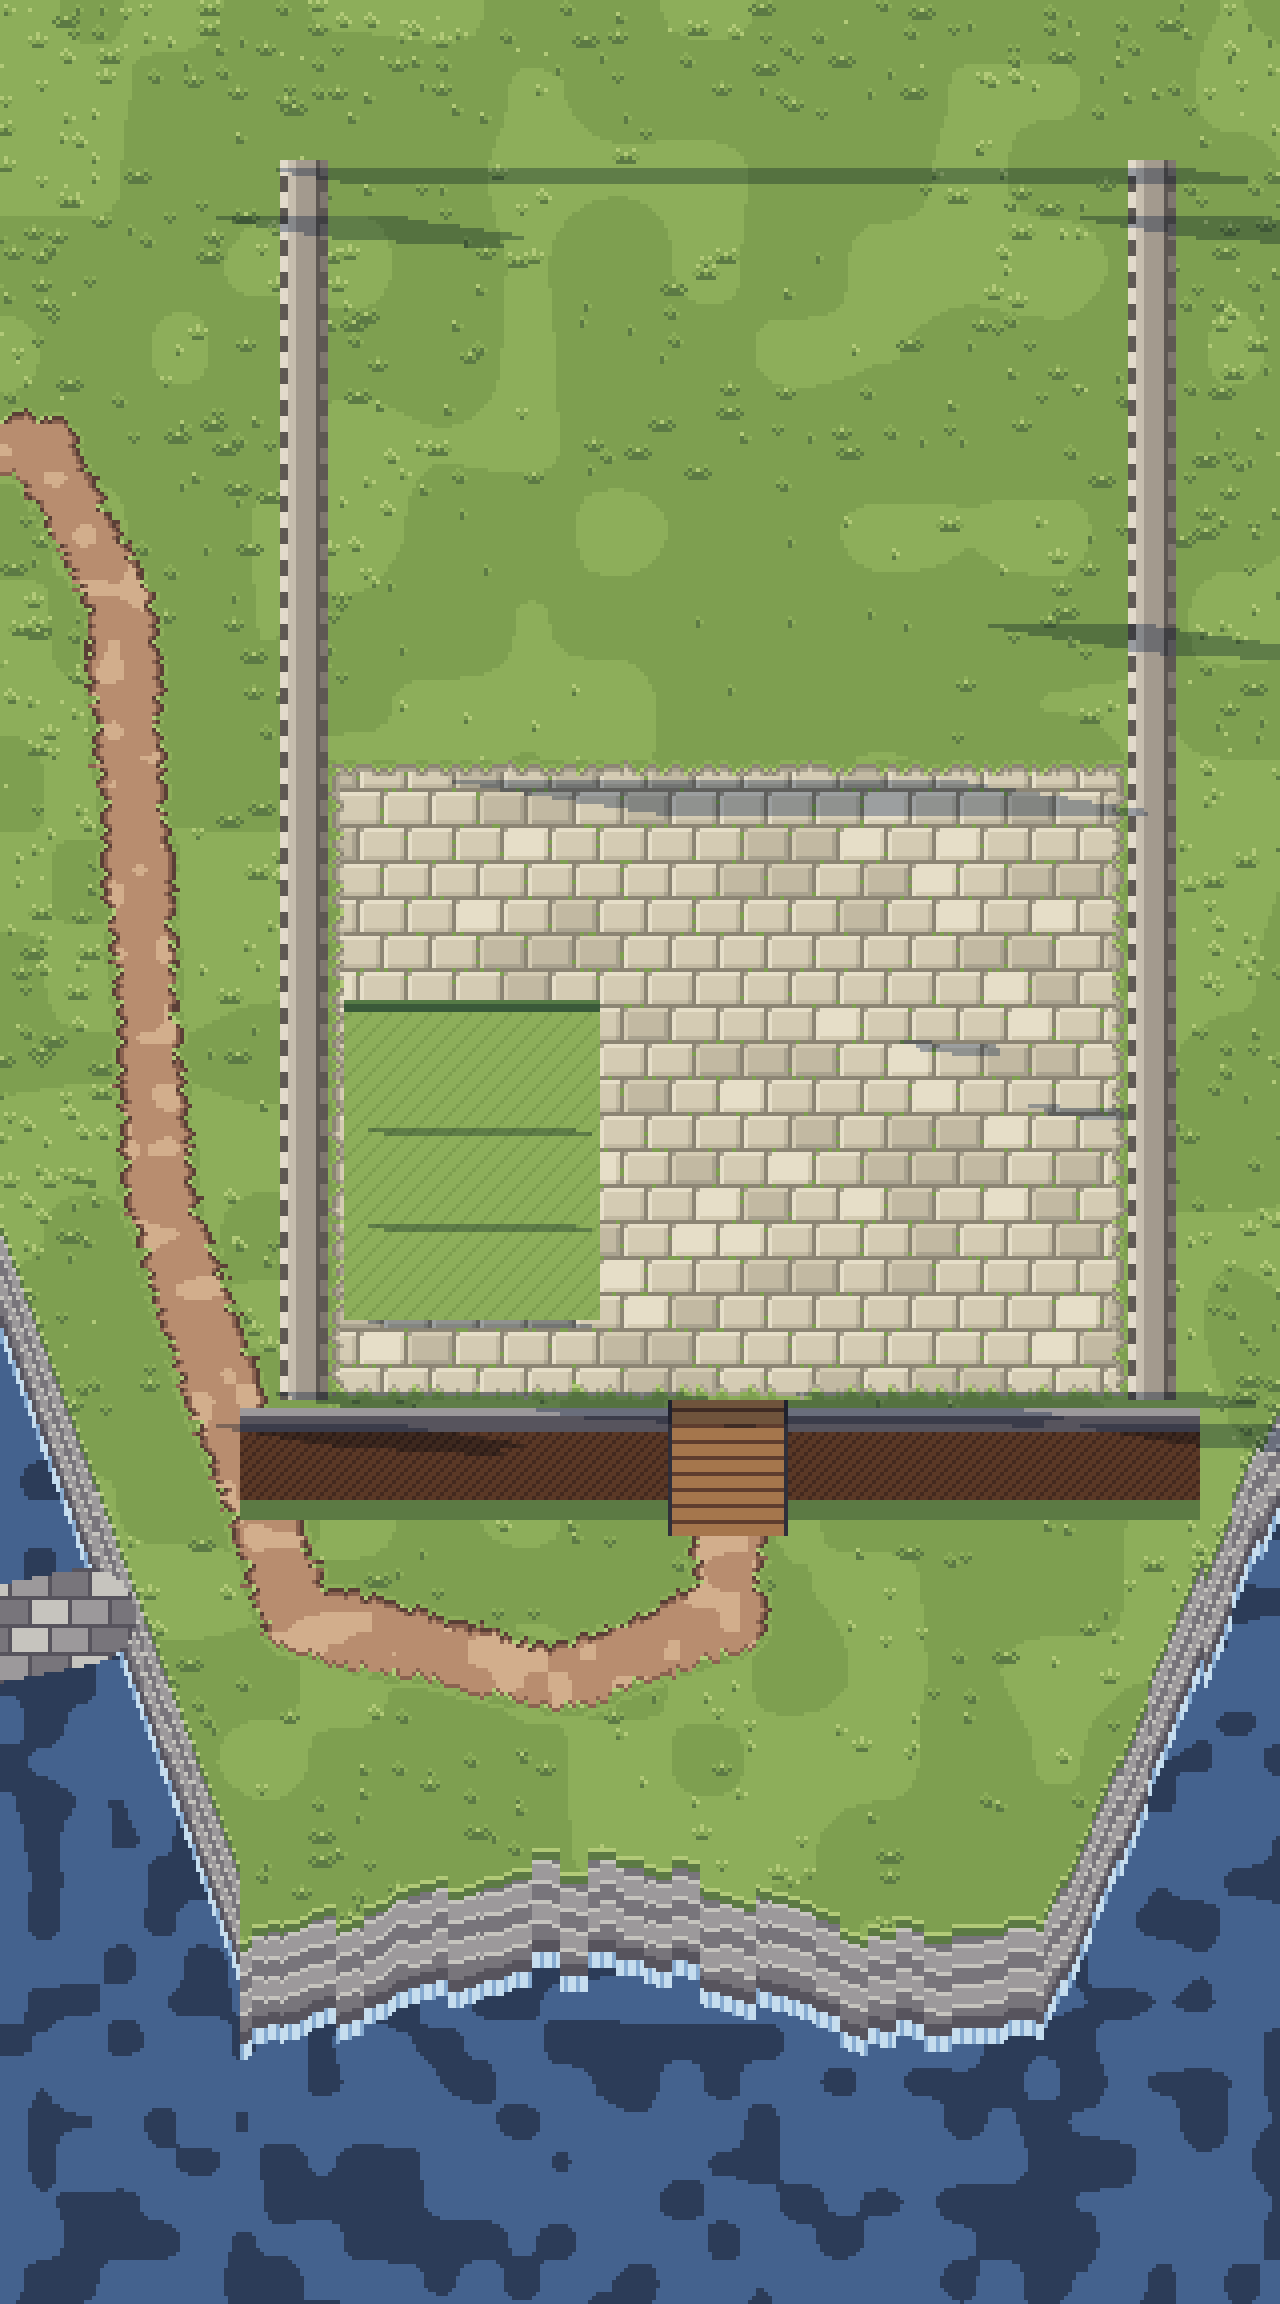
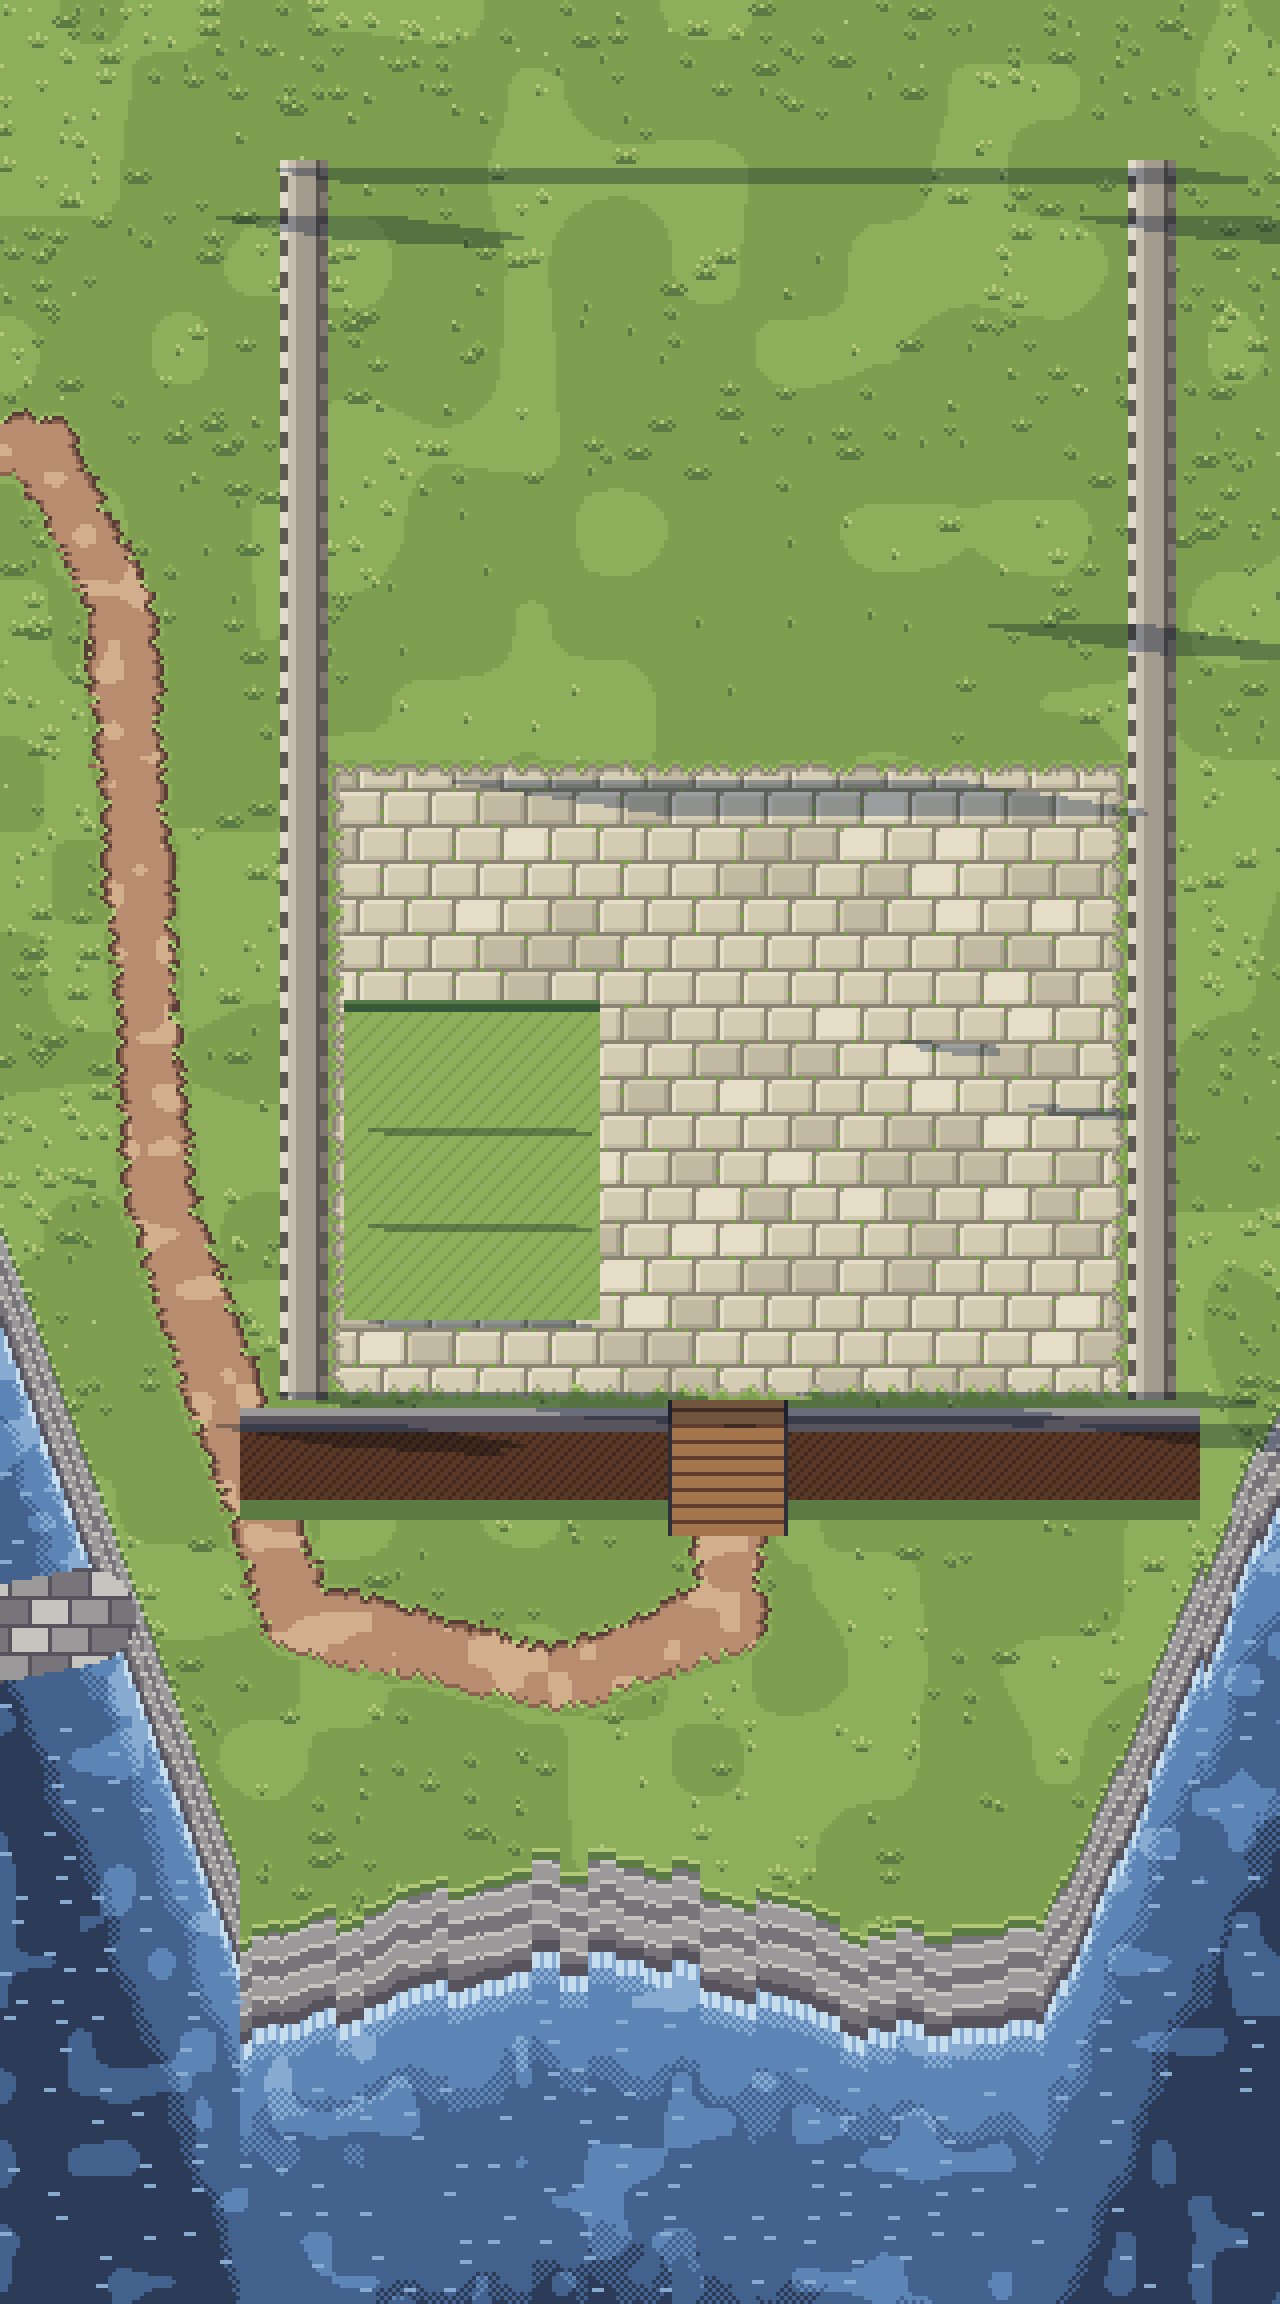
Hearthold Castle: the sea drawn like the harbour's (depth bands, foam, wave glints)
Claude-Session: https://claude.ai/code/session_01UudrmtYkicLNgZeuSjvjrK

Changed region(s): [[0.0, 0.6562, 1.0, 1.0], [0.0, 0.5938, 0.0625, 0.6875]]

diff --git a/scripts/art/zones.py b/scripts/art/zones.py
@@ -1782,15 +1782,27 @@ def castle(frame: int = 0):
                     c = STONEm[4]
                 if k > 22:
                     c = STONEm[1]
-            else:
+            else:  # the sea, as in the harbour: shallower and lighter near the cliff foot
                 n = smooth_noise(x, y, 10, 323 + frame)
-                c = WTRm[1] if n > 0.4 else WTRm[0]
+                depth = k - 26 + int(n * 18)
+                c = WTRm[2] if depth < 30 or (depth < 38 and (x + y) % 2) else WTRm[1]
+                if depth > 90 or (depth > 82 and (x + y) % 2):
+                    c = WTRm[0]
+                if n > 0.74:
+                    c = WTRm[min(4, WTRm.index(c) + 1)]
                 if k < 30:
-                    c = WTRm[4] if (x + frame) % 3 else WTRm[3]
+                    c = WTRm[4] if (x + frame) % 3 else WTRm[3]  # foam at the foot
+                elif k < 34 and (x + y) % 2:
+                    c = WTRm[3]
                 sea.add((x, y))
             cv.set(x, y, c)
             if k < 26:
                 sea.add((x, y)) if k > 2 else None
+    for ty in range(300, H, 6):  # wave glints on the open water
+        for tx in range(0, W, 11):
+            x, y = tx + int(noise2(tx, ty, 324) * 6), ty + int(noise2(tx, ty, 325) * 3)
+            if (x, y) in sea and (x + 3, y) in sea and y - edge_y(min(W - 1, max(0, x))) > 36 and noise2(tx, ty, 326) < 0.45:
+                cv.hline(x, y, 3, WTRm[3])
     # the harbour's breakwater runs on to its root against the headland's foot
     root = worlds.thick([(-8, 410), (22, 404)], 12)
     for (x, y) in root:
